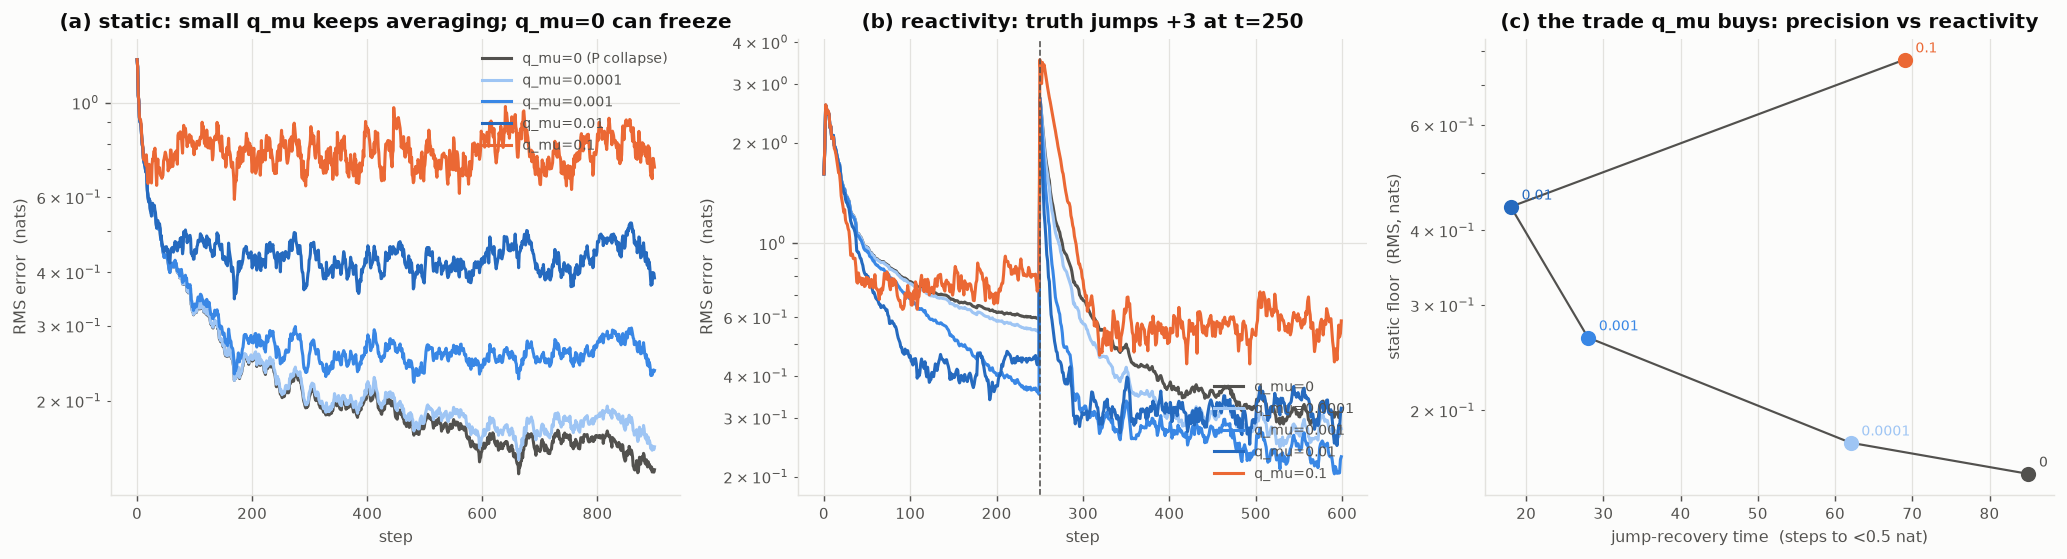
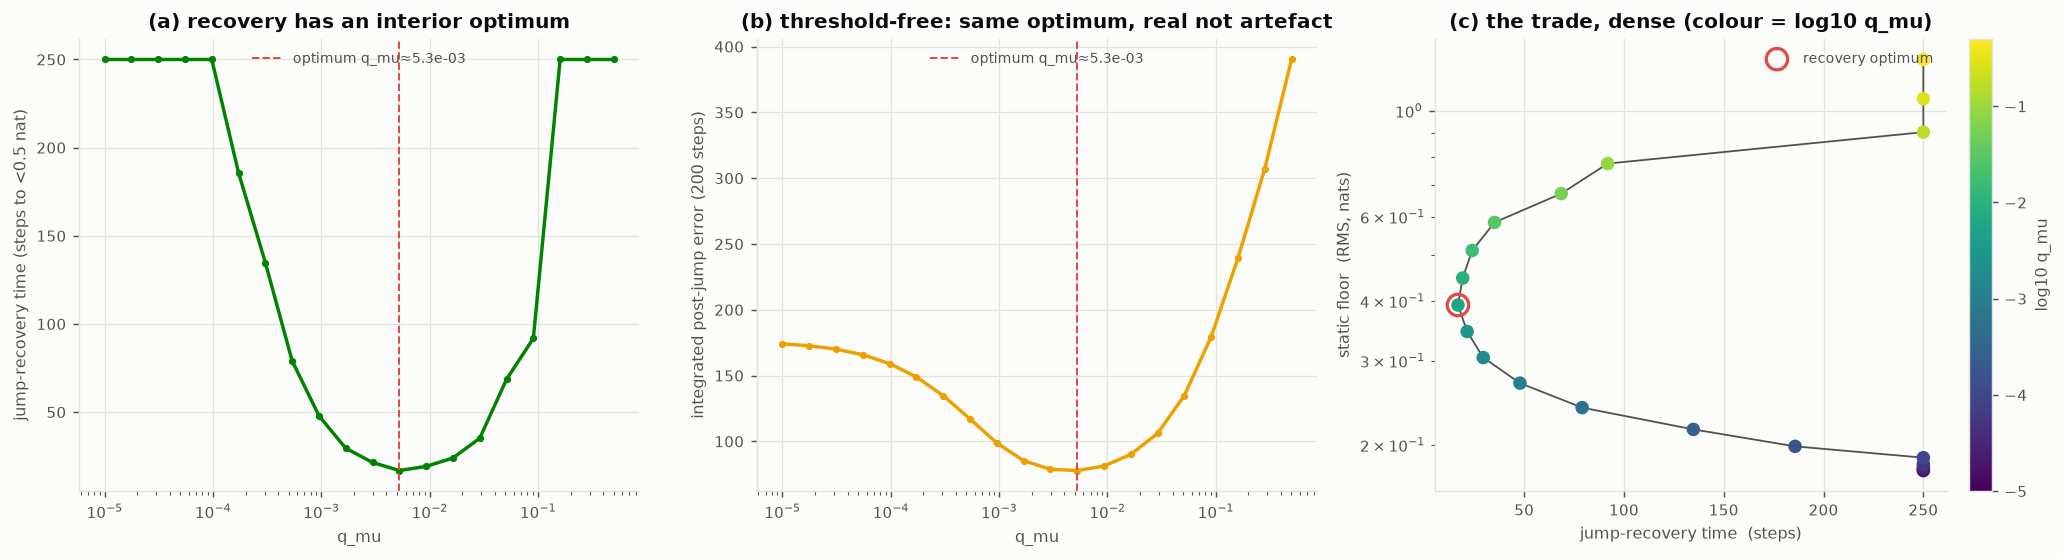
adaptive-grid 0014 (dense) + 0015: resolve the q_mu reactivity optimum and its finite-time nature
- Dense q_mu sweep (0014): jump-recovery has a clean interior optimum at
  q_mu ~ 5.3e-3 (17 steps), confirmed threshold-free by an integrated-error
  metric at the same location; static floor is monotone; large q_mu Pareto-
  dominated.
- Post-jump settling horizon (0015): the apparent steady-state optimum is a
  finite-settling-time effect. After a jump P has collapsed, so small q_mu keeps
  descending for ~1000 steps -- its true floor is lower, it just arrives later.
  The reactivity-optimal q_mu slides from 1e-3 (100-step budget) to <5e-5
  (1500-step budget). At long horizons the lowest q_mu wins (monotone floor);
  the interior optimum is the reactivity/precision trade read against a time
  budget, not an intrinsic steady-state minimum.

Claude-Session: https://claude.ai/code/session_01HdYFcaBabtxGXUyweDu2Jo

diff --git a/research/adaptive-grid/0014_q_mu_sweep.py b/research/adaptive-grid/0014_q_mu_sweep.py
@@ -37,6 +37,7 @@ import matplotlib.pyplot as plt  # noqa: E402
 
 QMUS = [0.0, 1e-4, 1e-3, 1e-2, 1e-1]
 COLORS = [ts.INK2, ts.SEQ[1], ts.SEQ[3], ts.SEQ[4], ts.SERIES[1]]
+QGRID = np.logspace(-5.0, -0.3, 20)          # dense sweep, 1e-5 .. 0.5
 
 
 def run_batch(lam_t, mu0, q_mu, nseed):
@@ -61,58 +62,74 @@ def rms(E, truth):
     return np.sqrt(((E - truth) ** 2).mean(0))
 
 
-def main(nseed=80):
+def cross_time(after, level=0.5):
+    """Interpolated first step at which the (post-jump) RMS drops below level."""
+    hit = np.where(after < level)[0]
+    if hit.size == 0:
+        return float(after.size)
+    i = hit[0]
+    if i == 0:
+        return 0.0
+    y0, y1 = after[i - 1], after[i]
+    return float((i - 1) + (y0 - level) / (y0 - y1))
+
+
+def main(nseed=120):
+    # dense sweep: static floor, threshold recovery, and threshold-FREE
+    # integrated post-jump error (to check the optimum is not a threshold artefact)
+    flat = np.zeros(700)
+    jt = 200
+    jump = np.zeros(450); jump[jt:] = 3.0
+    floor = np.zeros(QGRID.size)
+    recov = np.zeros(QGRID.size)
+    integ = np.zeros(QGRID.size)
+    for k, q in enumerate(QGRID):
+        floor[k] = rms(run_batch(flat, 3.0, q, nseed), 0.0)[-200:].mean()
+        r = rms(run_batch(jump, 0.0, q, nseed), jump)
+        after = r[jt:]
+        recov[k] = cross_time(after, 0.5)
+        integ[k] = after[:200].sum()                 # integrated excess error, 200 steps
+    k_rec = int(np.argmin(recov)); k_int = int(np.argmin(integ))
+    print(f"[recovery optimum]  min recovery-to-0.5 at q_mu={QGRID[k_rec]:.2e} "
+          f"({recov[k_rec]:.0f} steps)")
+    print(f"[integ  optimum ]  min integrated error at q_mu={QGRID[k_int]:.2e}")
+
     fig, ax = plt.subplots(1, 3, figsize=(16.0, 4.4))
 
-    # (a) static precision: converge from +3 and hold
-    nt = 900
-    flat = np.zeros(nt)
     a = ts.tidy(ax[0])
-    floors = {}
-    for q, c in zip(QMUS, COLORS):
-        r = rms(run_batch(flat, 3.0, q, nseed), 0.0)
-        floors[q] = r[-200:].mean()
-        a.plot(np.maximum(r, 1e-3), color=c, lw=1.7,
-               label=f"q_mu={q:g}" + (" (P collapse)" if q == 0 else ""))
-    a.set_yscale("log")
-    a.set_xlabel("step"); a.set_ylabel("RMS error  (nats)")
-    a.set_title("(a) static: small q_mu keeps averaging; q_mu=0 can freeze")
-    a.legend(loc="upper right", fontsize=8)
+    a.plot(QGRID, recov, color=ts.SERIES[5], lw=1.9, marker="o", ms=3)
+    a.axvline(QGRID[k_rec], color=ts.SERIES[7], lw=1.1, ls="--",
+              label=f"optimum q_mu≈{QGRID[k_rec]:.1e}")
+    a.set_xscale("log")
+    a.set_xlabel("q_mu"); a.set_ylabel("jump-recovery time (steps to <0.5 nat)")
+    a.set_title("(a) recovery has an interior optimum")
+    a.legend(loc="upper center", fontsize=8)
 
-    # (b) reactivity: truth jumps 0 -> +3 at t=250
-    nt = 600
-    jump = np.zeros(nt); jump[250:] = 3.0
     a = ts.tidy(ax[1])
-    recov = {}
-    for q, c in zip(QMUS, COLORS):
-        r = rms(run_batch(jump, 0.0, q, nseed), jump)
-        after = r[250:]
-        hit = np.where(after < 0.5)[0]
-        recov[q] = int(hit[0]) if hit.size else nt
-        a.plot(np.maximum(r, 1e-3), color=c, lw=1.7, label=f"q_mu={q:g}")
-    a.axvline(250, color=ts.INK2, lw=0.9, ls="--")
-    a.set_yscale("log")
-    a.set_xlabel("step"); a.set_ylabel("RMS error  (nats)")
-    a.set_title("(b) reactivity: truth jumps +3 at t=250")
-    a.legend(loc="lower right", fontsize=8)
+    a.plot(QGRID, integ, color=ts.SERIES[3], lw=1.9, marker="o", ms=3)
+    a.axvline(QGRID[k_int], color=ts.SERIES[7], lw=1.1, ls="--",
+              label=f"optimum q_mu≈{QGRID[k_int]:.1e}")
+    a.set_xscale("log")
+    a.set_xlabel("q_mu"); a.set_ylabel("integrated post-jump error (200 steps)")
+    a.set_title("(b) threshold-free: same optimum, real not artefact")
+    a.legend(loc="upper center", fontsize=8)
 
-    # (c) the trade: floor vs jump-recovery, parameterised by q_mu
     a = ts.tidy(ax[2])
-    fl = np.array([floors[q] for q in QMUS])
-    rc = np.array([recov[q] for q in QMUS])
-    a.plot(rc, fl, color=ts.INK2, lw=1.2, zorder=1)
-    for q, c in zip(QMUS, COLORS):
-        a.scatter([recov[q]], [floors[q]], color=c, s=55, zorder=3)
-        a.annotate(f"{q:g}", (recov[q], floors[q]), fontsize=8,
-                   xytext=(6, 4), textcoords="offset points", color=c)
+    a.plot(recov, floor, color=ts.INK2, lw=1.0, zorder=1)
+    sc = a.scatter(recov, floor, c=np.log10(QGRID), cmap="viridis", s=42, zorder=3)
+    a.scatter([recov[k_rec]], [floor[k_rec]], facecolors="none",
+              edgecolors=ts.SERIES[7], s=140, lw=1.8, zorder=4, label="recovery optimum")
     a.set_yscale("log")
-    a.set_xlabel("jump-recovery time  (steps to <0.5 nat)")
+    a.set_xlabel("jump-recovery time  (steps)")
     a.set_ylabel("static floor  (RMS, nats)")
-    a.set_title("(c) the trade q_mu buys: precision vs reactivity")
+    a.set_title("(c) the trade, dense (colour = log10 q_mu)")
+    a.legend(loc="upper right", fontsize=8)
+    fig.colorbar(sc, ax=a, fraction=0.046, pad=0.04, label="log10 q_mu")
 
-    print("[q_mu sweep]  q_mu :  static floor  |  jump-recovery steps")
-    for q in QMUS:
-        print(f"           {q:>7g} :   {floors[q]:.3f}       |   {recov[q]}")
+    print("\n[q_mu sweep]   q_mu   : floor | recov | integ")
+    for k, q in enumerate(QGRID):
+        mark = "  <-- recov opt" if k == k_rec else ""
+        print(f"           {q:.2e} : {floor[k]:.3f} | {recov[k]:5.1f} | {integ[k]:6.1f}{mark}")
     ts.save(fig, os.path.join(HERE, "figures", "0013-q-mu-sweep.png"))
 
 

diff --git a/research/adaptive-grid/0015_q_mu_settling_horizon.py b/research/adaptive-grid/0015_q_mu_settling_horizon.py
@@ -1,0 +1,109 @@
+"""Post-jump settling: is there a steady-state optimum in q_mu, or a finite-time one?
+
+0014's integrated post-jump error (200-step window) has an interior minimum and
+suggested q_mu=1e-3 might beat 1e-4 on post-jump *steady state*.  But that window
+mixes two things: the transient catch-up and the settled floor.  After the jump
+the covariance P has already collapsed from the initial convergence, so a very
+small q_mu has almost no gain left and is *still climbing* toward the jumped
+truth at step 200 -- its error there is unfinished transient, not a worse floor.
+
+So extend the settling tail and measure the post-jump error at several horizons.
+
+Prediction
+----------
+- The true settled floor (long horizon) is monotone in q_mu -- lower q_mu, lower
+  floor, same as the static floor -- so at long settling budgets low q_mu wins.
+- At short horizons an interior optimum appears and sits at higher q_mu (the one
+  that catches up before the window ends).  It moves left and flattens as the
+  horizon grows.  The "post-jump optimum" is therefore a finite-settling-time
+  effect, not a steady-state one -- the same reactivity/precision trade, read
+  against a time budget.
+
+Run: python 0015_q_mu_settling_horizon.py
+"""
+from __future__ import annotations
+
+import os
+import sys
+import time
+
+import numpy as np
+
+HERE = os.path.dirname(os.path.abspath(__file__))
+sys.path.insert(0, HERE)
+sys.path.insert(0, os.path.join(HERE, "..", "random-walk-filter", "scripts"))
+
+from gridlab import simulate  # noqa: E402
+from moving_grid import MovingChannel  # noqa: E402
+import theory_style as ts  # noqa: E402
+import matplotlib.pyplot as plt  # noqa: E402
+
+QGRID = np.logspace(-5.0, -0.3, 15)
+JT = 100                       # jump time
+NT = 1700                      # long tail
+HORIZONS = [100, 400, 1500]    # steps after the jump to read the settled error
+
+
+def jump_rms(q_mu, nseed):
+    lam = np.zeros(NT); lam[JT:] = 3.0
+    E = np.zeros((nseed, NT))
+    for sd in range(nseed):
+        rng = np.random.default_rng(700 + sd)
+        st = rng.normal(0.0, np.sqrt(np.exp(lam)))
+        x = np.cumsum(st) + rng.normal(0.0, 1.0, NT)
+        f = MovingChannel(1.0, 1.0, phi=0.9, s=0.30, order=5,
+                          step="kalman_auto", q_mu=q_mu, P0=25.0)
+        f.reset(mu=0.0)
+        E[sd] = [f.update(v)["logscale"] for v in x]
+    return np.sqrt(((E - lam) ** 2).mean(0))
+
+
+def main(nseed=100):
+    traj = np.array([jump_rms(q, nseed) for q in QGRID])   # (n_q, NT)
+    settled = np.array([[traj[k, JT + H - 50:JT + H].mean() for H in HORIZONS]
+                        for k in range(QGRID.size)])         # (n_q, n_H)
+
+    print("[settled post-jump RMS by horizon]  q_mu :  H=100   H=400   H=1500")
+    for k, q in enumerate(QGRID):
+        print(f"           {q:.2e} : {settled[k,0]:.3f}  {settled[k,1]:.3f}  {settled[k,2]:.3f}")
+    for j, H in enumerate(HORIZONS):
+        kbest = int(np.argmin(settled[:, j]))
+        print(f"  horizon {H:>4}: optimum q_mu = {QGRID[kbest]:.2e} "
+              f"(floor {settled[kbest,j]:.3f})")
+
+    fig, ax = plt.subplots(1, 2, figsize=(12.5, 4.5))
+
+    # (a) the extended settling tale: recovery trajectories, few q_mu
+    a = ts.tidy(ax[0])
+    show = [1e-5, 1e-4, 1e-3, 1e-2, 1e-1]
+    cols = [ts.INK2, ts.SEQ[1], ts.SEQ[3], ts.SEQ[5], ts.SERIES[1]]
+    t = np.arange(NT) - JT
+    for q, c in zip(show, cols):
+        k = int(np.argmin(np.abs(np.log(QGRID) - np.log(q))))
+        a.plot(t, np.maximum(traj[k], 1e-3), color=c, lw=1.6, label=f"q_mu≈{QGRID[k]:.0e}")
+    a.axvline(0, color=ts.INK2, lw=0.8, ls="--")
+    a.set_yscale("log")
+    a.set_xlabel("steps after the +3 jump"); a.set_ylabel("RMS error  (nats)")
+    a.set_title("(a) extended settling tale: low q_mu keeps climbing for ~1000 steps")
+    a.legend(loc="upper right", fontsize=8)
+
+    # (b) settled floor vs q_mu at three horizons -- the optimum is finite-time
+    a = ts.tidy(ax[1])
+    hcols = [ts.SERIES[1], ts.SERIES[3], ts.SERIES[5]]
+    for j, (H, c) in enumerate(zip(HORIZONS, hcols)):
+        a.plot(QGRID, settled[:, j], color=c, lw=1.8, marker="o", ms=3,
+               label=f"{H} steps after jump")
+        kb = int(np.argmin(settled[:, j]))
+        a.scatter([QGRID[kb]], [settled[kb, j]], facecolors="none",
+                  edgecolors=c, s=130, lw=1.8, zorder=4)
+    a.set_xscale("log"); a.set_yscale("log")
+    a.set_xlabel("q_mu"); a.set_ylabel("post-jump settled RMS  (nats)")
+    a.set_title("(b) the optimum moves left and flattens as you wait longer")
+    a.legend(loc="upper left", fontsize=8, title="settling budget")
+    ts.save(fig, os.path.join(HERE, "figures", "0014-q-mu-settling-horizon.png"))
+
+
+if __name__ == "__main__":
+    t0 = time.time()
+    main()
+    print(f"\ndone in {time.time() - t0:.1f}s")

diff --git a/research/adaptive-grid/SUMMARY.md b/research/adaptive-grid/SUMMARY.md
@@ -127,10 +127,17 @@ recursion via [`gridlab.py`](gridlab.py), verified to 1e-7).
    glitch" are identically distributed and no causal filter has a bounded
    competitive ratio. `q_mu` is that bound (≈ the log-scale's own innovation
    variance). Profiled ([`0014`](0014_q_mu_sweep.py)) it is a **smooth, forgiving
-   dial**: static floor and jump-recovery each span ~5× over three decades, with
-   a broad usable band (1e-4–1e-2) and an elbow near 1e-3; too-large `q_mu` (0.1)
-   is Pareto-dominated — noisy *and* slow to re-acquire. So the one remaining knob
-   is both theoretically mandated and empirically robust to mis-setting.
+   dial**: the static floor is monotone (lower `q_mu`, lower floor), while
+   jump-recovery has a clean interior optimum at **`q_mu ≈ 5×10⁻³`** (~17 steps),
+   confirmed threshold-free by an integrated-error metric at the same location;
+   too-large `q_mu` is Pareto-dominated. The apparent post-jump *steady-state*
+   optimum is a **finite-settling-time** effect
+   ([`0015`](0015_q_mu_settling_horizon.py)): after a jump `P` has collapsed, so a
+   small `q_mu` keeps descending for ~1000 steps — its true floor is lower, it
+   just arrives later. The reactivity-optimal `q_mu` slides from `1e-3` (short
+   budget) to `<5e-5` (long budget). So the one remaining knob is theoretically
+   mandated (Prop 1), empirically robust, and its only tradeoff is
+   reactivity-vs-precision read against a settling-time budget.
 
 **Prior art:** the dead zone is new here. Related but distinct: the GPB1 ridge
 `Q·e^{s_P²/2}=const` (fitted-surface flatness from covariance collapse,
@@ -169,8 +176,9 @@ spacing lesson (`ode-filter/0047`).
   [`0011`](0011_toward_defensibly_optimal_ranging.md) optimality path ·
   [`0012`](0012_surrogate_vs_optimal.py) surrogate vs optimal ·
   [`0013`](0013_self_calibrating_tracker.py) self-calibrating (no a,b,R) ·
-  [`0014`](0014_q_mu_sweep.py) q_mu sweep.
+  [`0014`](0014_q_mu_sweep.py) q_mu sweep ·
+  [`0015`](0015_q_mu_settling_horizon.py) post-jump settling horizon.
 - `figures/` — `0001-what-lights-up`, `0002-between-nodes`, `0003-the-bells`,
   `0004-resolution-criterion`, `0005-exact-vs-local`, `0006-measurement-and-plane`,
   `0007-the-move`, `0008-online-convergence`, `0009-settling`,
-  `0010-likelihood-gradient-flow`, `0011-surrogate-vs-optimal`, `0012-self-calibrating`, `0013-q-mu-sweep`.
+  `0010-likelihood-gradient-flow`, `0011-surrogate-vs-optimal`, `0012-self-calibrating`, `0013-q-mu-sweep`, `0014-q-mu-settling-horizon`.
